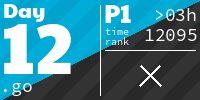
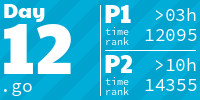
2024-12-12 part2

diff --git a/2024/12/main.go b/2024/12/main.go
@@ -6,58 +6,93 @@ import (
 	"github.com/defts/advent-of-code/utils"
 )
 
-func calculateRegion(grid [][]rune, start utils.Position, visited map[utils.Position]bool) (int, int) {
-	stack := []utils.Position{start}
-	area, perimeter := 0, 0
-	regionType := grid[start.Row][start.Col]
-
-	for len(stack) > 0 {
-		cell := stack[len(stack)-1]
-		stack = stack[:len(stack)-1]
-
-		if visited[cell] {
-			continue
-		}
-		visited[cell] = true
-		area++
-
-		for _, dir := range utils.GetAllCartesianDirection() {
-			neighbor := cell.Move(dir, 1)
-			if neighbor.Row < 0 || neighbor.Col < 0 || neighbor.Row >= len(grid) || neighbor.Col >= len(grid[0]) {
-				perimeter++ // Edge of the grid
-			} else if grid[neighbor.Row][neighbor.Col] != regionType {
-				perimeter++ // Neighbor of a different type
-			} else if !visited[neighbor] {
-				stack = append(stack, neighbor)
-			}
-		}
-	}
-	return area, perimeter
-}
-
 func part1(arg [][]rune) int {
 	defer utils.Timer("part1")()
 
 	res := 0
 	visited := make(map[utils.Position]bool)
 
-	for row := 0; row < len(arg); row++ {
-		for col := 0; col < len(arg[0]); col++ {
-			pos := utils.Position{Row: row, Col: col}
-			if !visited[pos] {
-				area, perimeter := calculateRegion(arg, pos, visited)
-				res += area * perimeter
+	board := utils.NewGrid(arg)
 
+	for pos, v := range board.Nodes {
+		if visited[pos] {
+			continue
+		}
+
+		stack := []utils.Position{pos}
+		area, perimeter := 0, 0
+		regionType := v
+
+		for len(stack) > 0 {
+			cell := stack[len(stack)-1]
+			stack = stack[:len(stack)-1]
+
+			if visited[cell] {
+				continue
+			}
+			visited[cell] = true
+			area++
+
+			for _, dir := range utils.GetAllCartesianDirection() {
+				neighbor := cell.Move(dir, 1)
+				if !board.PositionInBounds(neighbor) {
+					perimeter++ // Edge of the grid
+				} else if arg[neighbor.Row][neighbor.Col] != regionType {
+					perimeter++ // Neighbor of a different type
+				} else if !visited[neighbor] {
+					stack = append(stack, neighbor)
+				}
 			}
 		}
+
+		res += area * perimeter
 	}
 	return res
 }
 
-func part2(arg [][]rune) int {
-	defer utils.Timer("part2")()
+func part2(input [][]rune) int {
+	board := utils.NewGrid(input)
+
+	seen := make(map[utils.Position]bool)
 	res := 0
 
+	for pos := range board.Nodes {
+		if seen[pos] {
+			continue
+		}
+		seen[pos] = true
+
+		area := 1
+		sides := 0
+
+		// Utilisation d'une pile pour le parcours
+		stack := []utils.Position{pos}
+
+		for len(stack) > 0 {
+			// Pop depuis la fin de la pile
+			n := len(stack) - 1
+			loc := stack[n]
+			stack = stack[:n]
+
+			for _, dir := range utils.GetAllCartesianDirection() {
+				newLoc := loc.Move(dir, 1)
+				if board.Nodes[newLoc] != board.Nodes[loc] {
+					// Vérification des coins
+					check1 := loc.Move(dir.Turn(utils.Left), 1)
+					check2 := check1.Move(dir, 1)
+
+					if board.Nodes[check1] != board.Nodes[loc] || board.Nodes[check2] == board.Nodes[loc] {
+						sides++
+					}
+				} else if !seen[newLoc] {
+					seen[newLoc] = true
+					stack = append(stack, newLoc)
+					area++
+				}
+			}
+		}
+		res += area * sides
+	}
 	return res
 }
 

diff --git a/2024/12/main_test.go b/2024/12/main_test.go
@@ -14,7 +14,7 @@ func Test_part1(t *testing.T) {
 
 func Test_part2(t *testing.T) {
 	loadFile("test.txt")
-	res := 65601038650482
+	res := 1206
 	if got := part2(arg); got != res {
 		t.Errorf("part2() = %v, want %v", got, res)
 	}

diff --git a/README.md b/README.md
@@ -2,7 +2,7 @@
 
 <!-- AOC TILES BEGIN -->
 <h1 align="center">
-  2024 - 23 ⭐ - Go
+  2024 - 24 ⭐ - Go
 </h1>
 <a href="2024/01/input.go">
   <img src=".aoc_tiles/tiles/2024/01.png" width="161px">
